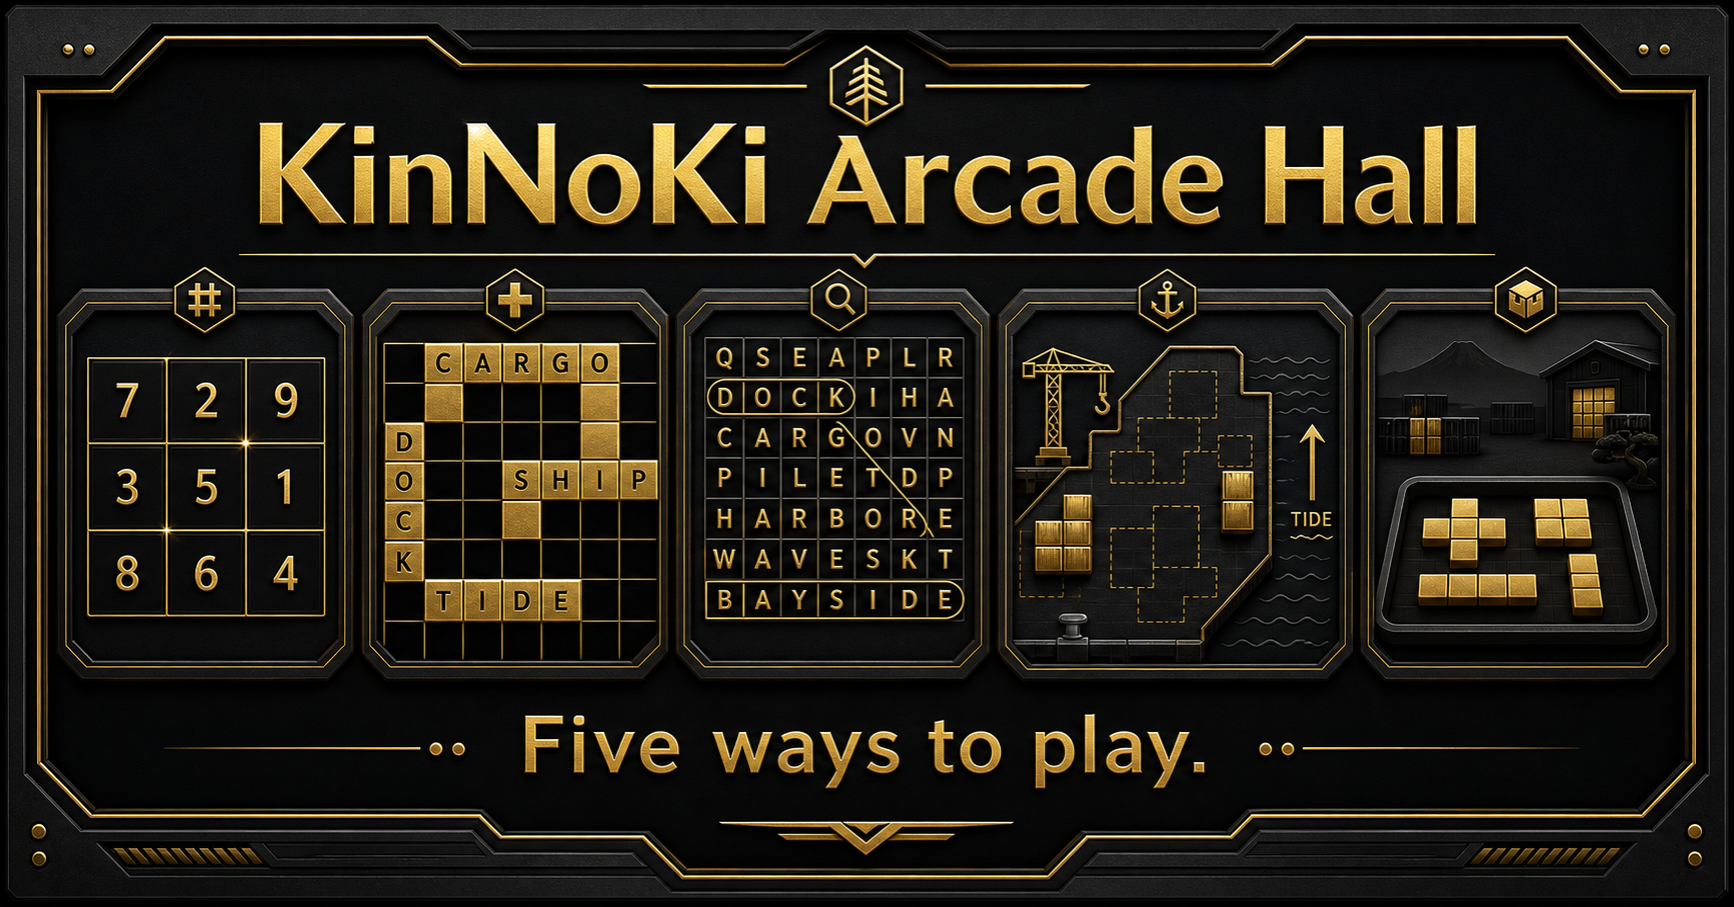
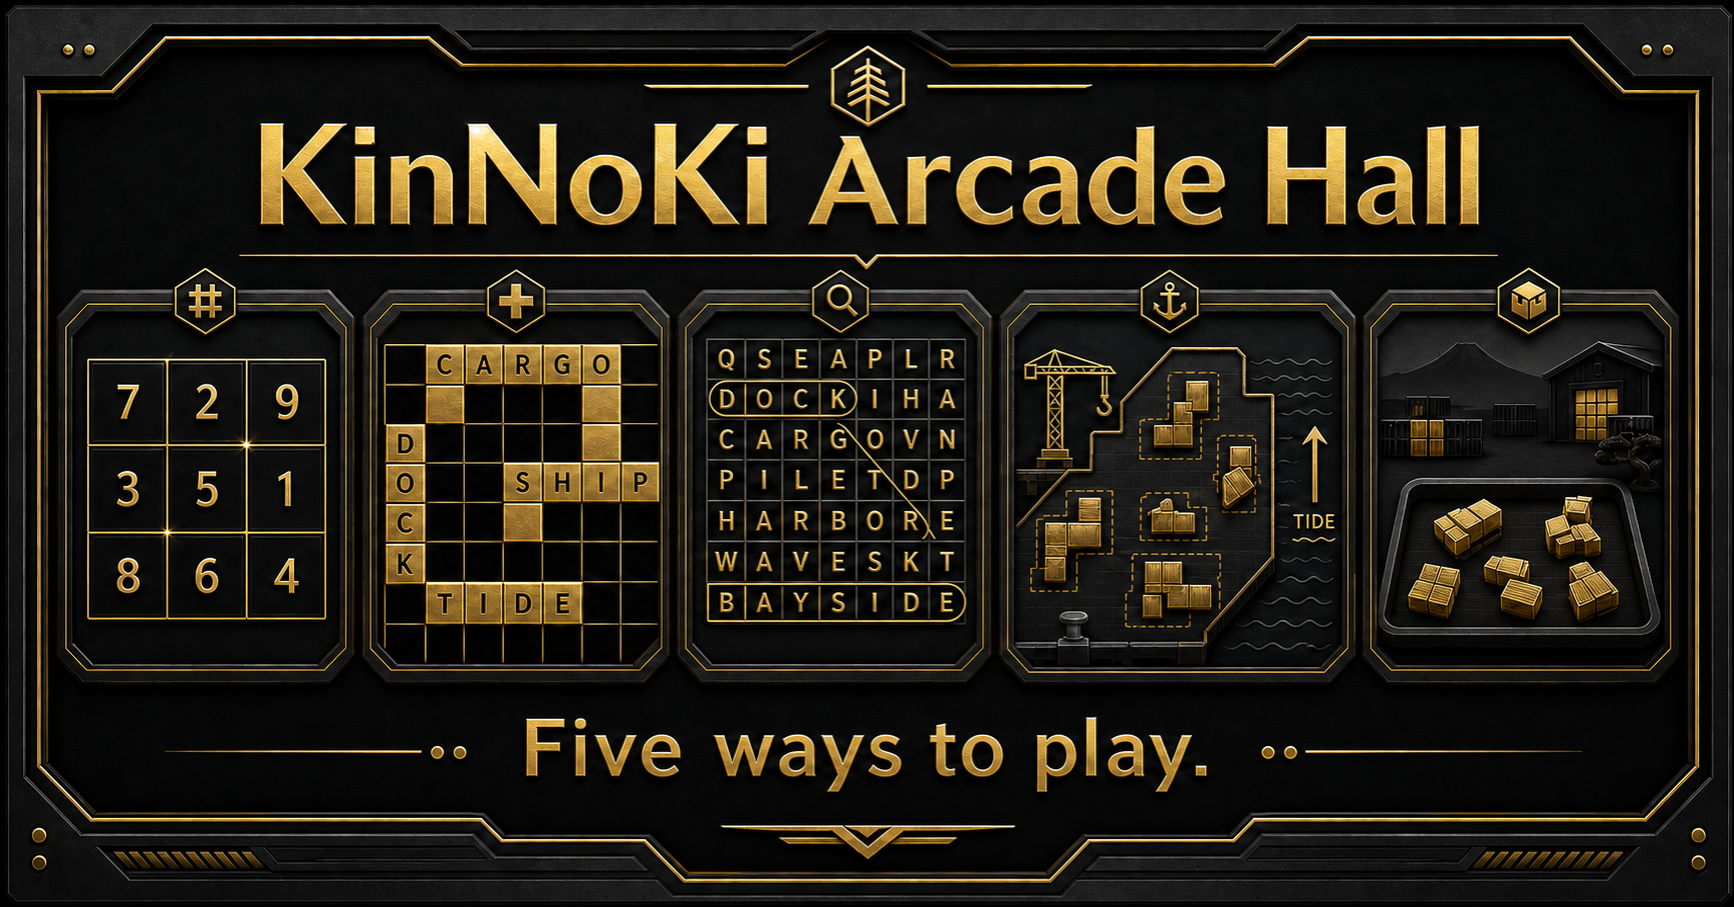
fix(games): replace reviewed Arcade Hall artwork

diff --git a/.superpowers/sdd/task-14A-report.md b/.superpowers/sdd/task-14A-report.md
@@ -8,6 +8,7 @@ Complete.
 
 - RED: `node --test Tests/games/routes.test.mjs` failed with 11 expected failures: both metadata-only content sources were absent, the bootstrap did not use validator-aware store opening or lazy cargo controllers, six new resources were absent from generated output, and both public cargo routes were absent.
 - Boundary RED: after source implementation but before generation, the same suite passed its source/bootstrap assertions and retained 8 expected generated-output failures.
+- Artwork-review RED: the durable raster hash check failed against the superseded social art while the corrected five-card hub regression passed.
 - GREEN: after `make generate`, the focused suite passed all 18 tests.
 - GREEN: `make test-games` passed all 298 tests.
 
@@ -18,13 +19,15 @@ Complete.
 - Replaced the bootstrap with validator-aware v2 store opening, lazy imports for all five controllers, migration/write failure notices, and shared recoverable error rendering.
 - Added source/bootstrap regression coverage alongside generated resource, route, navigation, and metadata assertions.
 - Updated the Arcade Hall architecture notes in `AGENTS.md` and `CLAUDE.md`.
-- Replaced the shared social raster with original five-vignette graphite-black and metallic-gold artwork carrying the exact `KinNoKi Arcade Hall` and `Five ways to play.` text. The image-generation result was one pixel narrower than requested, so it was proportionally normalized to the required 1734-by-907 dimensions with `sips` before source generation.
+- Replaced the shared social raster with the approved built-in imagegen edit from `/Users/dfakkeldy/.codex/generated_images/019f57f7-7834-7ee3-ab54-c036f1712a0f/exec-31fc803c-5d4b-4d80-9713-a4295ae43a27.png`. The edit prompt retained the graphite-black and metallic-gold five-vignette composition and exact `KinNoKi Arcade Hall` / `Five ways to play.` text while replacing the two right-side game panels with irregular two-to-five-cell cargo parcels that avoid recognizable T/O/I/L/J/S/Z tetromino silhouettes and any seven-piece set. The reviewed result was one pixel wider than requested, so only its width was normalized to the required 1734-by-907 dimensions with `sips` before source generation.
+- Updated the older core hub regression to name and count all five cards.
 
 ## Generated output
 
 - `Output/` was created only through `make generate`; no generated file was hand-edited.
[1 lines of base64/hex data omitted]
 - Required generated routes and controller resources exist.
[2 lines of base64/hex data omitted]
 - The generated integration includes source work accumulated by Tasks 1A through 13, as intended by Task 14A's source-plus-generated-output boundary.
 
 ## Verification
@@ -32,10 +35,11 @@ Complete.
 - Focused route/source/bootstrap suite — 18/18 pass
 - Full `make test-games` suite — 298/298 pass
 - Social raster dimensions — 1734 by 907
+- Social raster reviewed text, five-panel composition, and irregular non-tetromino cargo parcels — pass
 - Required generated file assertions — pass
 - Reproducible full `Output/` tree hash — pass
 - `git diff --check -- Output` — pass
 
 ## Concerns
 
-- The generated artwork is polished and meets the content, contrast, safe-margin, and prohibited-branding constraints. As with any AI-generated text-bearing raster, future visual review should retain the committed original-resolution asset rather than recompressing it.
+- None remaining from the artwork review. The exact reviewed raster is pinned by dimensions and SHA-256 in the route suite, and generation is required to copy it byte-for-byte.